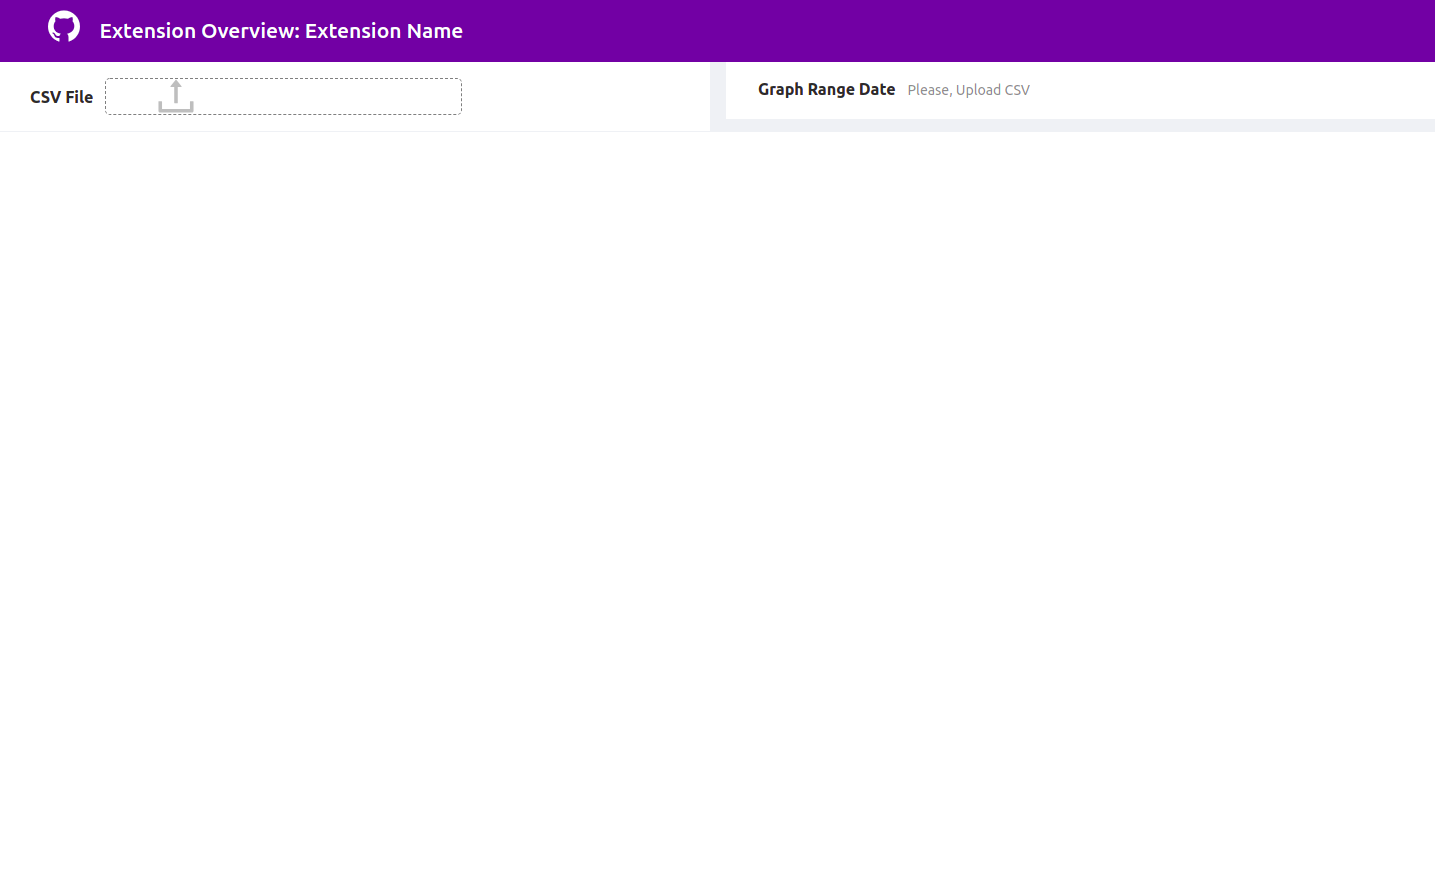
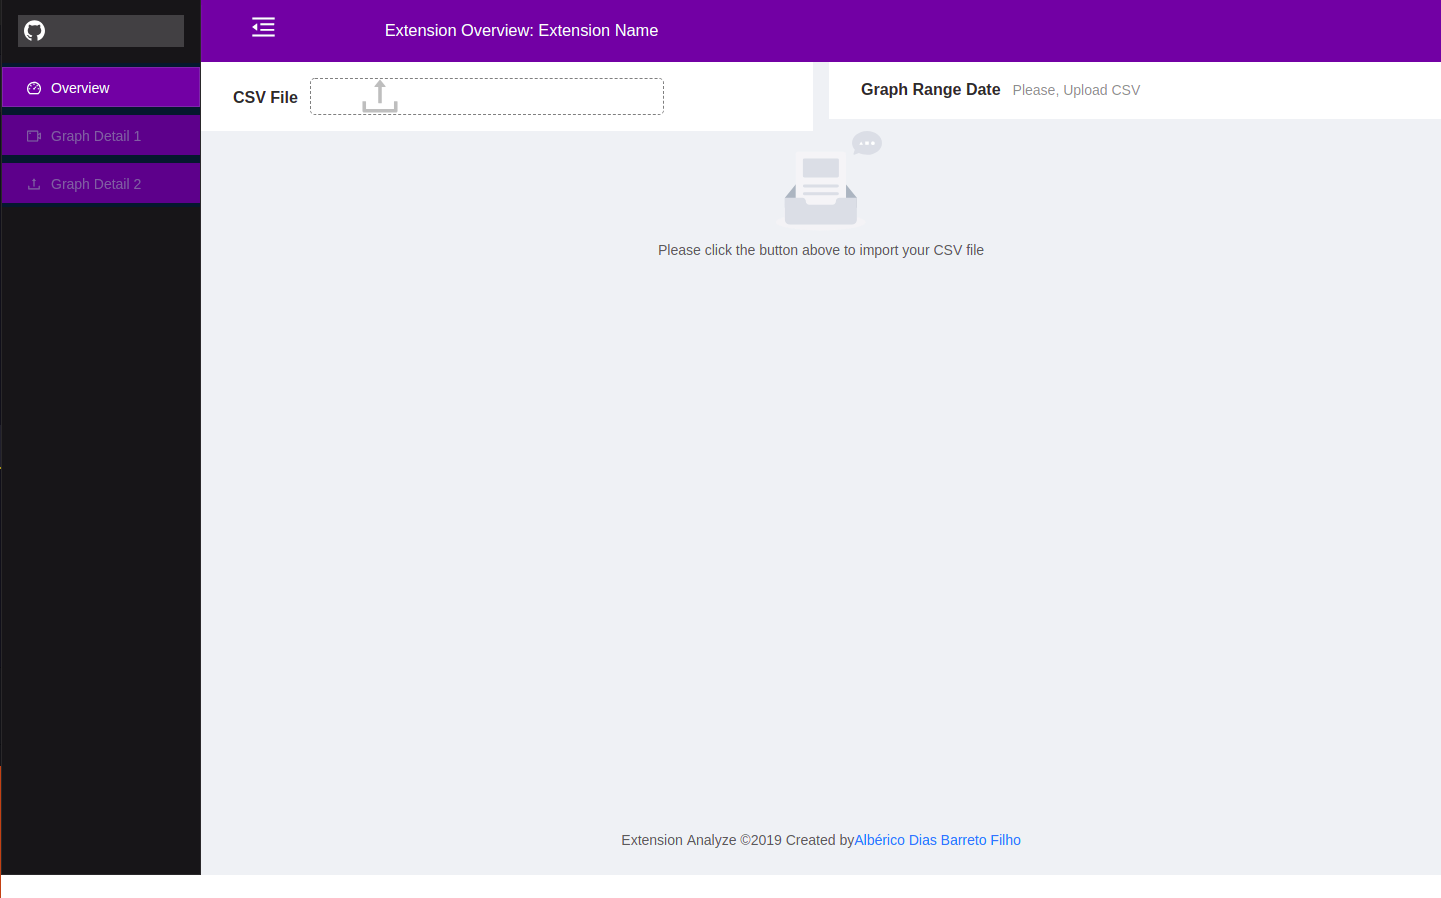
update dashboard style and readme

diff --git a/src/App.tsx b/src/App.tsx
@@ -1,10 +1,11 @@
 import React, { Component } from 'react';
 import { ImportTwitchCSV, ContentBox, ITwitchExtensionPrimitiveCSV } from './components/index';
-import { Layout, Icon, DatePicker, Row, Col, PageHeader } from 'antd';
+import { Layout, Icon, DatePicker, Row, Col, PageHeader, Menu, Empty } from 'antd';
 import moment, { Moment } from 'moment';
 import { RangePickerPresetRange } from 'antd/lib/date-picker/interface';
 
-const { Header, Content } = Layout;
+const { Header, Sider, Content, Footer } = Layout;
+
 const { RangePicker } = DatePicker;
 const dateFormat = 'YYYY/MM/DD';
 interface IRange {
@@ -18,6 +19,7 @@ interface IState {
   name: string;
   initialDateIndex: number;
   lastDateIndex: number;
+  collapsed: boolean;
 }
 class App extends Component<{}, IState> {
   state: IState;
@@ -30,7 +32,8 @@ class App extends Component<{}, IState> {
       csv: null,
       name: 'Extension Name',
       initialDateIndex: 0,
-      lastDateIndex: 0
+      lastDateIndex: 0,
+      collapsed: false
     };
   }
   csvJSON(csv: string): ITwitchExtensionPrimitiveCSV[] {
@@ -62,7 +65,11 @@ class App extends Component<{}, IState> {
       });
     }
   };
-
+  toggle = () => {
+    this.setState({
+      collapsed: !this.state.collapsed
+    });
+  };
   handleFileChosen = (file: any) => {
     this.setState({ load: true }, () => {
       this.state.fileReader.onloadend = this.handleFileRead;
@@ -111,60 +118,121 @@ class App extends Component<{}, IState> {
     const { csv, initialDateIndex, lastDateIndex } = this.state;
     return (
       <Layout>
-        <Header
+        <Sider
+          trigger={null}
+          collapsible
+          collapsed={this.state.collapsed}
+          breakpoint='sm'
           style={{
-            background: '#6441a4'
+            background: '#0f0e11',
+            border: '1px solid hsla(0,0%,100%,.09)',
+            boxShadow:
+              '0 2px 4px -1px hsla(0,0%,100%,.05),0 2px 2px -2px hsla(0,0%,100%,.05),0 1px 4px 0 hsla(0,0%,100%,.05)'
           }}>
-          <h1 style={{ color: '#fff' }}>
+          <div className='logo'>
             <a href='https://github.com/AlbericoD' target='__blank'>
-              <Icon
-                type='github'
-                style={{ color: '#fff', fontSize: '1.5em', marginTop: 10, marginRight: 20 }}
-              />
+              <Icon type='github' style={{ color: '#fff', fontSize: '1.5em', margin: '5px 6px' }} />
             </a>
-            Extension Overview: {this.state.name}
-          </h1>
-        </Header>
-        <Content>
-          <Row gutter={16}>
-            <Col span={12}>
-              <PageHeader
-                title='CSV File'
-                subTitle={<ImportTwitchCSV handleFileChosen={this.handleFileChosen} />}
+          </div>
+          <Menu theme='dark' mode='inline' defaultSelectedKeys={['1']}>
+            <Menu.Item
+              key='1'
+              style={{
+                background: '#6441a4',
+                border: '1px solid hsla(0,0%,100%,.09)'
+              }}>
+              <Icon type='dashboard' />
+              <span>Overview</span>
+            </Menu.Item>
+            <Menu.Item
+              key='2'
+              disabled
+              style={{
+                background: '#6441a4',
+                border: '1px solid hsla(0,0%,100%,.09)'
+              }}>
+              <Icon type='video-camera' />
+              <span>Graph Detail 1 </span>
+            </Menu.Item>
+            <Menu.Item
+              key='3'
+              disabled
+              style={{
+                background: '#6441a4',
+                border: '1px solid hsla(0,0%,100%,.09)'
+              }}>
+              <Icon type='upload' />
+              <span>Graph Detail 2</span>
+            </Menu.Item>
+          </Menu>
+        </Sider>
+        <Layout>
+          <Header
+            style={{
+              background: '#6441a4'
+            }}>
+            <h1 style={{ color: '#fff' }}>
+              <Icon
+                className='trigger'
+                type={this.state.collapsed ? 'menu-unfold' : 'menu-fold'}
+                onClick={this.toggle}
+                style={{ color: '#fff', fontSize: '1.5em', marginTop: 10, marginRight: 100 }}
               />
-            </Col>
-            <Col span={12}>
-              <PageHeader
-                title='Graph Range Date'
-                subTitle={
-                  csv !== null ? (
-                    <RangePicker
-                      defaultValue={[
-                        moment(csv[csv.length - 1].Date, dateFormat),
-                        moment(csv[0].Date, dateFormat)
-                      ]}
-                      ranges={this.makeRanges(csv)}
-                      format={dateFormat}
-                      size={'large'}
-                      onChange={(e: any) => this.parseDateToIndex(e)}
-                    />
-                  ) : (
-                    'Please, Upload CSV'
-                  )
-                }
-              />
-            </Col>
-            <Col span={24}>
-              {csv !== null ? (
-                <ContentBox
-                  csv={csv}
-                  initialDateIndex={initialDateIndex}
-                  lastDateIndex={lastDateIndex}
+              &nbsp;&nbsp;Extension Overview: {this.state.name}
+            </h1>
+          </Header>
+          <Content>
+            <Row gutter={16}>
+              <Col span={12}>
+                <PageHeader
+                  title='CSV File'
+                  subTitle={<ImportTwitchCSV handleFileChosen={this.handleFileChosen} />}
                 />
-              ) : null}
-            </Col>
-          </Row>
-        </Content>
+              </Col>
+              <Col span={12}>
+                <PageHeader
+                  title='Graph Range Date'
+                  subTitle={
+                    csv !== null ? (
+                      <RangePicker
+                        defaultValue={[
+                          moment(csv[csv.length - 1].Date, dateFormat),
+                          moment(csv[0].Date, dateFormat)
+                        ]}
+                        ranges={this.makeRanges(csv)}
+                        format={dateFormat}
+                        size={'large'}
+                        onChange={(e: any) => this.parseDateToIndex(e)}
+                      />
+                    ) : (
+                      'Please, Upload CSV'
+                    )
+                  }
+                />
+              </Col>
+              <Col span={24}>
+                {csv !== null ? (
+                  <ContentBox
+                    csv={csv}
+                    initialDateIndex={initialDateIndex}
+                    lastDateIndex={lastDateIndex}
+                  />
+                ) : (
+                  <Empty
+                    style={{ height: '75vh' }}
+                    description={<span>Please click the button above to import your CSV file</span>}
+                  />
+                )}
+              </Col>
+            </Row>
+          </Content>
+          <Footer style={{ textAlign: 'center' }}>
+            Extension Analyze ©2019 Created by
+            <a href='https://github.com/AlbericoD' target='__blank'>
+              Albérico Dias Barreto Filho
+            </a>
+          </Footer>
+        </Layout>
       </Layout>
     );
   }

diff --git a/src/index.css b/src/index.css
@@ -56,3 +56,8 @@ th {
 .ant-fullcalendar-value {
   color: #898395 !important;
 }
+.logo {
+  height: 32px;
+  background: rgba(255, 255, 255, 0.2);
+  margin: 16px;
+}
